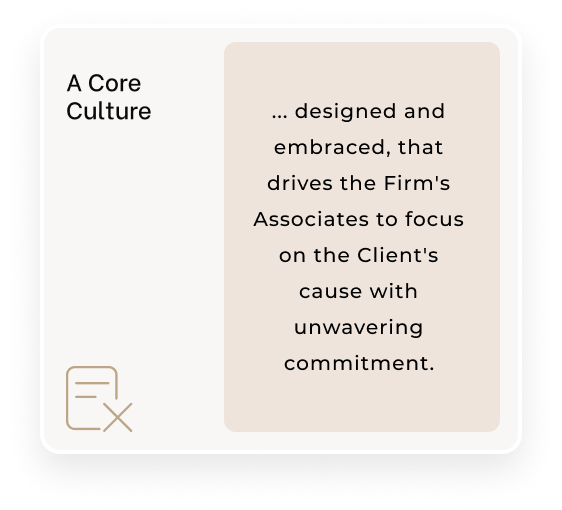
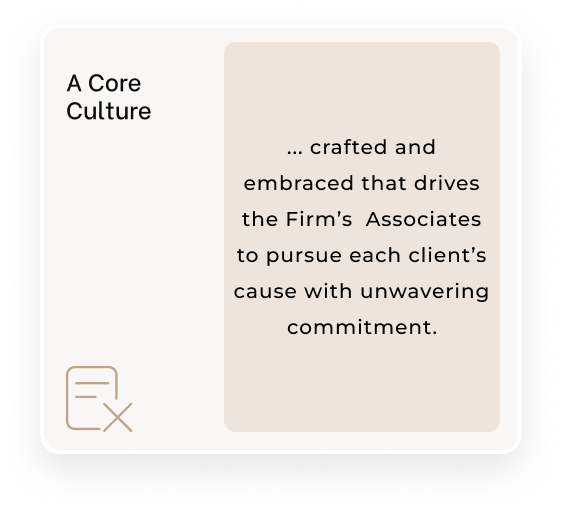
Update client-cause section order: reorder cards to Culture, Expertise, Services

diff --git a/src/components/home/founder.jsx b/src/components/home/founder.jsx
@@ -50,28 +50,28 @@ export default function Founder() {
 
                         <div className="founder-bio-container">
                             <p className="founder-bio">
-                                Amar Correa, heads ACA Juris. A professional journey extending over 25 years, which began with engagements
+                                Amar Correa, heads ACA Juris.A professional journey extending over 25 years, which began with engagements
                                 in criminal litigations at the grass roots level, before the Courts of Magistrates.
                                 His practice gradually progressed to representing, defending and prosecuting
                                 clients in serious Sessions Cases and matters pertaining to Special Laws. Over
                                 time, there has been a consistent focus on practising primarily before the High
-                                Court of Karnataka, while also maintaining representation in cases before the
+                                Court and thet of Karnataka, while also maintaining representation in cases before the
                                 Sessions Courts and the Magistrate Courts.
                             </p>
                             <p className="founder-bio">
                                 In addition to his extensive experience in conducting sessions trials, Amar
                                 Correa has represented and defended clients in difficult and complex trials
                                 before CBI Courts in cases involving financial frauds of high magnitude, cyber
-                                crimes, extradition proceedings, cases under Organised Crime Acts, miningrelated offences, offences under the Narcotics Drugs and Psychotropic
+                                crimes, extradition proceedings, cases under Organised Crime Acts, miningrelated
+                                offences, offences under the Narcotics Drugs and Psychotropic
                                 Substances Act, prosecutions under the Company’s Law investigated by the
                                 SFIO and general offences under the Indian Penal Code.
                             </p>
                             <p className="founder-bio">
                                 Amar Correa has routinely handled Matrimonial matters like Divorce, Child
-                                Amar Correa has routinely handled Matrimonial matters like Divorce, Child
                                 Custody and Maintenance. He has represented before High Court as well as
                                 Family courts in matters involving Foreign Court orders on Divorce and Child
-                                Custody, including filing of Habeas Corpus Petitions before High Court.      </p>
+                                Custody, including filing of Habeas Corpus Petitions before High Court.     </p>
                             <p className="founder-bio">
                                 The practice before the Karnataka High Court has mostly involved habeas
                                 corpus petitions, criminal appeals, criminal revision petitions, petitions for bails,
@@ -88,7 +88,7 @@ export default function Founder() {
                             <p className="founder-bio">
                                 He has represented the State of Karnataka as Special Public Prosecutor in
                                 select cases, and has likewise been appointed Amicus Curiae before both the
-                                Sessions Courts and the High Court.     </p>
+                                Sessions Courts and the High Court.    </p>
                         </div>
                     </div>
 

diff --git a/src/components/home/about.jsx b/src/components/home/about.jsx
@@ -17,16 +17,16 @@ export default function About() {
                 <span style={{ fontFamily: "'Be Vietnam', sans-serif", fontWeight: 593}}>ACA</span>
                 <span style={{ fontWeight: 400 }}>Juris</span>
                 <span style={{ fontWeight: 250 }}>,</span>
-              </span> is a Bangalore - based multidisciplinary law Firm with 
-a core focus on criminal law. Established in 2002, the Firm brings over 25 years of dedicated 
-experience in advising and representing individual and corporate clients across all stages of 
-criminal litigation - from Magistrate and Sessions Courts to the High Court. <span style={{ color: '#4B4F58' }}><span style={{ fontFamily: "'Be Vietnam', sans-serif", fontWeight: 593 }}>ACA</span><span style={{ fontWeight: 400 }}>Juris</span></span> offers strategic legal counsel and courtroom representation grounded in practical 
-insight. The Firm engages with a wide range of matters, including offences under the Indian 
-Penal Code, prosecutions under the Companies Act, infringement of copyright and trademark 
-laws, workplace sexual harassment, cheque dishonour under the Negotiable Instruments Act, 
-defamation-related litigation and criminal prosecution, extradition proceedings, legal issues 
-concerning foreign nationals, cybercrime and digital offences, investigations and prosecutions by 
-the Enforcement Directorate, and cases under the Narcotic Drugs and Psychotropic Substances 
+              </span> is a Bangalore-based multidisciplinary law firm with
+a core focus on criminal law. Established in 2002, the firm brings over 25 years of dedicated
+experience in advising and representing individual and corporate clients across all stages of
+criminal litigation—from Magistrate and Sessions Courts to the High Court. <span style={{ color: '#4B4F58' }}><span style={{ fontFamily: "'Be Vietnam', sans-serif", fontWeight: 593 }}>ACA</span><span style={{ fontWeight: 400 }}>Juris</span></span> offers strategic legal counsel and courtroom representation grounded in practical
+insight. The Firm engages with a wide range of matters, including offences under the Indian
+Penal Code, prosecutions under the Companies Act, infringement of copyright and trademark
+laws, workplace sexual harassment, cheque dishonour under the Negotiable Instruments Act,
+defamation-related litigation and criminal prosecution, extradition proceedings, legal issues
+concerning foreign nationals, cybercrime and digital offences, investigations and prosecutions by
+the Enforcement Directorate, and cases under the Narcotic Drugs and Psychotropic Substances
 Act.
               {isExpanded && (
                 <>

diff --git a/src/components/home/client-cause.jsx b/src/components/home/client-cause.jsx
@@ -13,18 +13,19 @@ export default function Culture() {
       title: <>A Core<br />Culture</>,
       icon: "/icons/culture.svg",
       desc:
-        "… crafted and embraced- that drives the Firm’s Associates to focus on the Client’s cause with unwavering commitment.",
+        "… crafted and embraced- that drives the Firm’s Associates to pursue each client's cause with unwavering commitment.",
+    },
+    {
+      title: <>Our Core<br />Expertise</>,
+      icon: "/icons/expertise.svg",
+      desc:
+        "… being Criminal Law, ACAJuris is noted as having familiarity with arduous criminal litigations and recognised as Criminal Law Attorneys.",
     },
     {
       title: <>Our Core<br />Services</>,
       icon: "/icons/services.svg",
       desc:
         "… cover every stage and platform of criminal litigation—from prelitigation counsel to case closure.",
-    },
-    {
-      title: <>Our Core<br />Expertise</>,
-      icon: "/icons/expertise.svg",desc:
-        "… being Criminal Law, ACAJuris is noted as having familiarity with arduous criminal litigations and recognised as Criminal Law Attorneys.",
     },
   ];
 

diff --git a/src/components/contact/contact.module.css b/src/components/contact/contact.module.css
@@ -19,7 +19,7 @@
 
 .contactPage {
   padding: 90px 0;
-  background: #F4F2EE;
+  background: #fdfbf7;
 }
 
 .container {
@@ -267,6 +267,12 @@
 /* Optional hover (clean & professional) */
 .submitBtn:hover {
   opacity: 0.9;
+}
+
+.submitBtn:active {
+  background: #000000;
+  border-color: #000000;
+  transform: scale(0.98);
 }
 
 /* ===============================
